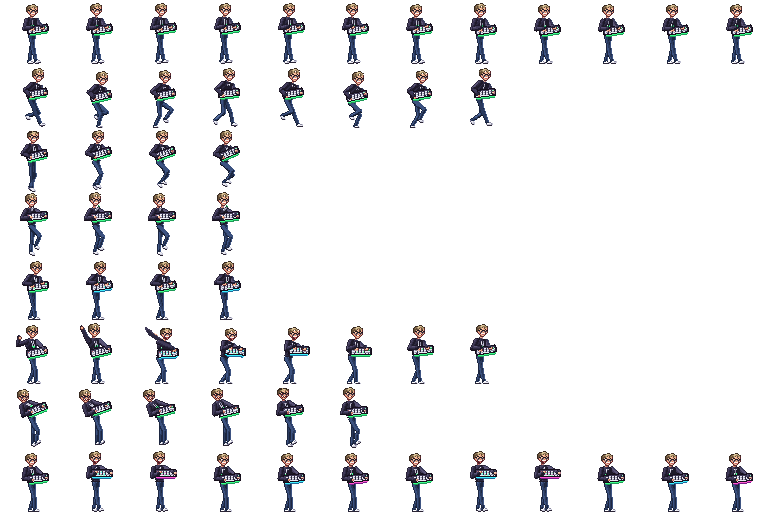
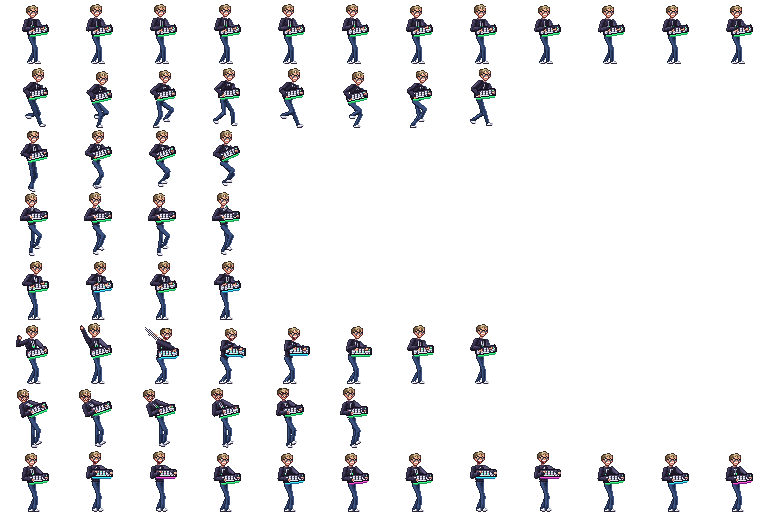
fix(looks): planted feet, chest breathing, clearer glasses and code bolts for hibit
Planted feet rode up and down with every breath: the stance asked for more reach than
the legs had, so the IK straightened the leg and dragged the foot along. Legs now keep a
soft knee, `planted` settles the pelvis whenever a pose would lift a planted foot, the
foot direction ignores the body's lean, and the idle breathes through the chest only,
so a standing hero's legs are pixel-still while the chest, head and hair move.

The eyes behind the glasses are his blue-grey instead of black: a black eye between two
dark rims turned the narrow far lens into a solid blob that read as goggles. Code bolts
ink their glyphs before glowing so `</>` stays legible, smear fans dither their bodies
to read as motion rather than a dark flag, and Strategy's shirt reads white with a
hand-drawn open collar under his chin.

diff --git a/tools/looks/hibit/characters/hibit/effects.py b/tools/looks/hibit/characters/hibit/effects.py
@@ -108,68 +108,91 @@ GLYPHS: Dict[str, List[str]] = {
 CODE = {"core": "#ffffff", "hot": "#9dffc4", "mid": "#3dff8a", "dim": "#1f9a58", "deep": "#0e4a2a", "ink": "#06200f"}
 
 
+def _outlined_glyph(p: Pixels, rows: Sequence[str], x: int, y: int, fill: str, ink: str) -> None:
+    """A glyph with a 1 px ink outline around it, so it stays legible inside a glow."""
+    for j, row in enumerate(rows):
+        for i, ch in enumerate(row):
+            if ch != "#":
+                continue
+            for dx in (-1, 0, 1):
+                for dy in (-1, 0, 1):
+                    if p.get(x + i + dx, y + j + dy) is None:
+                        p.put(x + i + dx, y + j + dy, ink)
+    p.glyph(rows, x, y, fill)
+
+
+def _glow(p: Pixels, color: str, sparse: bool = False) -> None:
+    """One stepped band of glow around everything drawn so far (never a soft blur)."""
+    add = []
+    for y in range(p.h):
+        for x in range(p.w):
+            if p.get(x, y) is not None:
+                continue
+            if sparse and (x + y) % 2:
+                continue
+            if any(p.get(x + dx, y + dy) is not None for dx, dy in ((-1, 0), (1, 0), (0, -1), (0, 1))):
+                add.append((x, y))
+    for x, y in add:
+        p.put(x, y, color)
+
+
 def _bolt_core(p: Pixels, cx: int, cy: int, hot: bool) -> None:
-    """`</>` with a two-band stepped glow."""
-    text = ["<", "/", ">"]
-    x = cx - 5
-    for g in text:
-        p.glyph(GLYPHS[g], x, cy - 2, CODE["core"] if hot else CODE["hot"])
-        x += 4
-    # Stepped glow: dilate twice with darker bands (drawn under the glyphs).
-    glyph_px = {(i % p.w, i // p.w) for i, c in enumerate(p.px) if c in (CODE["core"], CODE["hot"])}
-    for band, color in ((1, CODE["mid"]), (2, CODE["dim"])):
-        for x0, y0 in list(glyph_px):
-            for dx in range(-band, band + 1):
-                for dy in range(-band, band + 1):
-                    if abs(dx) + abs(dy) <= band and p.get(x0 + dx, y0 + dy) is None:
-                        p.put(x0 + dx, y0 + dy, color)
+    """`</>` in white-hot mint, inked so it reads, wrapped in a stepped green glow."""
+    fill = CODE["core"] if hot else CODE["hot"]
+    x = cx - 6
+    for g in ("<", "/", ">"):
+        _outlined_glyph(p, GLYPHS[g], x, cy - 2, fill, CODE["ink"])
+        x += 5
+    _glow(p, CODE["mid"])
+    _glow(p, CODE["dim"], sparse=True)
 
 
 def code_projectile() -> List[Sprite]:
-    """Six frames: the bolt shimmers (core flips white/mint) while glyphs stream behind it."""
+    """Six frames: the bolt shimmers (core flips white/mint, the outer glow crawls) while a
+    stream of keyboard glyphs peels off behind it, dimmer with distance."""
     trail_glyphs = [";", "1", "{", "0", "=", "}"]
     frames = []
     for f in range(6):
         p = Pixels()
-        _bolt_core(p, 17, 16, hot=f % 2 == 0)
-        # The stream: glyphs peel off behind and fall away, dimmer with distance.
+        _bolt_core(p, 19, 16, hot=f % 2 == 0)
         for k in range(3):
             g = trail_glyphs[(f + k * 2) % len(trail_glyphs)]
-            gx = 8 - k * 4 - (f % 2)
+            gx = 6 - k * 4 - (f % 2)
             gy = 14 + (1 if (f + k) % 2 else -1) * (k % 2) + (k == 2)
             color = (CODE["mid"], CODE["dim"], CODE["deep"])[k]
-            rows = GLYPHS[g]
-            p.glyph(rows, gx, gy, color)
-        # Scanline sparkle on the leading edge.
-        p.put(25 + (f % 3 == 0), 16 - 2 + (f % 3), CODE["core"])
+            p.glyph(GLYPHS[g], gx, gy, color)
+        # A leading spark that skips along the front edge.
+        p.put(29, 14 + (f % 3), CODE["core"])
         frames.append(p.sprite())
     return frames
 
 
 def code_impact() -> List[Sprite]:
-    """Seven frames: white pop, the bolt shatters into brackets and bits that fly and blink out."""
+    """Seven frames: a white-hot pop, a two-band shock ring, then the bolt's brackets and
+    bits fly apart and blink out like hardware sprites."""
     frames = []
     shards = [("{", -1.0, -0.6), ("}", 1.0, -0.5), ("<", -1.0, 0.5), (">", 1.0, 0.6), (";", 0.1, -1.0), ("0", 0.0, 1.0)]
     for f in range(7):
         p = Pixels()
         if f == 0:
-            p.disc(16, 16, 5.5, 4.5, CODE["dim"])
-            p.disc(16, 16, 4.0, 3.2, CODE["hot"])
-            p.disc(16, 16, 2.5, 2.0, CODE["core"])
+            p.disc(16, 16, 6.0, 5.0, CODE["dim"])
+            p.disc(16, 16, 4.5, 3.6, CODE["hot"])
+            p.disc(16, 16, 3.0, 2.4, CODE["core"])
         elif f == 1:
+            p.ring(16, 16, 8.5, CODE["dim"], 1.0)
             p.ring(16, 16, 7.5, CODE["mid"], 1.0)
             p.disc(16, 16, 3.0, 2.5, CODE["core"])
         else:
             r = 3 + f * 2.4
             for g, dx, dy in shards:
                 if f >= 5 and (f + len(g)) % 2:
-                    continue  # blink out
+                    continue
                 gx = int(16 + dx * r - 1)
                 gy = int(16 + dy * r * 0.8 - 2)
-                color = CODE["hot"] if f < 4 else CODE["mid"] if f < 6 else CODE["dim"]
-                p.glyph(GLYPHS[g], gx, gy, color)
+                color = CODE["core"] if f < 3 else CODE["hot"] if f < 5 else CODE["mid"]
+                _outlined_glyph(p, GLYPHS[g], gx, gy, color, CODE["ink"])
             if f < 4:
-                p.ring(16, 16, 7.5 + (f - 1) * 2.5, CODE["dim"], 1.0)
+                p.ring(16, 16, 9.5 + (f - 1) * 2.5, CODE["dim"], 1.0)
         frames.append(p.sprite())
     return frames
 
@@ -186,12 +209,12 @@ def code_muzzle() -> List[Sprite]:
                 rad = math.radians(a)
                 p.line(16 + math.cos(rad) * 4, 16 + math.sin(rad) * 4, 16 + math.cos(rad) * 6, 16 + math.sin(rad) * 6, CODE["hot"])
         elif f == 1:
-            p.glyph(GLYPHS[">"], 15, 13, CODE["core"])
-            p.glyph(GLYPHS["_"], 19, 17, CODE["hot"])
-            p.ring(16, 16, 6.0, CODE["dim"])
+            _outlined_glyph(p, GLYPHS[">"], 15, 13, CODE["core"], CODE["ink"])
+            _outlined_glyph(p, GLYPHS["_"], 19, 17, CODE["hot"], CODE["ink"])
+            p.ring(16, 16, 7.0, CODE["dim"])
         elif f == 2:
-            p.glyph(GLYPHS[">"], 16, 13, CODE["mid"])
-            p.glyph(GLYPHS["_"], 20, 17, CODE["mid"])
+            _outlined_glyph(p, GLYPHS[">"], 16, 13, CODE["mid"], CODE["ink"])
+            _outlined_glyph(p, GLYPHS["_"], 20, 17, CODE["mid"], CODE["ink"])
         else:
             p.put(18, 15, CODE["dim"])
             p.put(21, 17, CODE["dim"])

diff --git a/tools/looks/hibit/characters/hibit/heroes.py b/tools/looks/hibit/characters/hibit/heroes.py
@@ -51,12 +51,27 @@ def _hips(pose: Pose) -> Tuple[Tuple[float, float], Tuple[float, float]]:
 
 def planted(pose: Pose, near: Tuple[float, float] = (3.2, 0.8), far: Tuple[float, float] = (-2.8, -0.6),
             near_lift: float = 0.0, far_lift: float = 0.0, near_pitch: float = 0.0, far_pitch: float = 0.0) -> Pose:
-    """Plants both feet at (dx, dz) from their hips with IK, so the body can bob above them."""
+    """Plants both feet at (dx, dz) from their hips with IK, so the body can bob above them.
+
+    A planted foot must never ride up with the body: if the pose asks for more reach than
+    a soft-kneed leg has, the pelvis settles until both feet are on their marks."""
     (nx, nz), (fx, fz) = _hips(replace(pose, y=0.0, lean=0.0))
+    near_target = (nx + near[0], BUILD.ankle_height + near_lift, nz + near[1])
+    far_target = (fx + far[0], BUILD.ankle_height + far_lift, fz + far[1])
+    reach = (BUILD.thigh + BUILD.shin) * 0.985
+    sk = solve(pose)
+    drop = 0.0
+    for hip, target in ((sk.near_leg.root, near_target), (sk.far_leg.root, far_target)):
+        dx, dz = target[0] - hip[0], target[2] - hip[2]
+        flat = dx * dx + dz * dz
+        if flat < reach * reach:
+            max_height = math.sqrt(reach * reach - flat)
+            drop = max(drop, (hip[1] - target[1]) - max_height)
     return replace(
         pose,
-        near_leg=Limb(target=(nx + near[0], BUILD.ankle_height + near_lift, nz + near[1]), end=near_pitch),
-        far_leg=Limb(target=(fx + far[0], BUILD.ankle_height + far_lift, fz + far[1]), end=far_pitch),
+        y=pose.y - max(0.0, drop),
+        near_leg=Limb(target=near_target, end=near_pitch),
+        far_leg=Limb(target=far_target, end=far_pitch),
     )
 
 
@@ -67,8 +82,8 @@ def idle_body(i: int) -> FrameSpec:
     """A relaxed, weight-on-the-back-leg stance that breathes; blinks once, glints once."""
     t = i / IDLE_FRAMES
     breath = math.sin(2 * math.pi * t)
-    pose = Pose(y=0.55 * breath - 0.4, lean=-1.0 + 0.6 * breath, chest_lean=-1.0, hip_yaw=30.0, chest_yaw=50.0,
-                roll=-2.0)
+    pose = Pose(y=-1.2, chest_rise=0.6 * breath, lean=-1.0, chest_lean=-1.0 + 0.5 * breath, hip_yaw=30.0,
+                chest_yaw=50.0, roll=-2.0)
     pose = planted(pose, near=(5.4, 1.0), far=(-4.2, -0.8), near_pitch=4.0)
     face = "blink" if i == 8 else "smile"
     # The hair lags the breath: it floats a moment after the chest drops.
@@ -215,6 +230,8 @@ class Hero:
     skill: Callable[[], List[FrameSpec]]
     victory: Callable[[], List[FrameSpec]]
     sleeve: str
+    #: Head-relative sprites worn in every frame (Strategy's open collar).
+    worn: Tuple[Tuple, ...] = ()
 
 
 def locomotion(hero: Hero, anim: str) -> List[FrameSpec]:
@@ -233,12 +250,16 @@ def locomotion(hero: Hero, anim: str) -> List[FrameSpec]:
 
 def frames_for(hero: Hero, anim: str) -> List[FrameSpec]:
     if anim == "attack":
-        return hero.attack()
-    if anim == "skill":
-        return hero.skill()
-    if anim == "victory":
-        return hero.victory()
-    return locomotion(hero, anim)
+        specs = hero.attack()
+    elif anim == "skill":
+        specs = hero.skill()
+    elif anim == "victory":
+        specs = hero.victory()
+    else:
+        specs = locomotion(hero, anim)
+    if hero.worn:
+        specs = [replace(spec, head_fx=spec.head_fx + hero.worn) for spec in specs]
+    return specs
 
 
 # ── HACKERMAN: the keyboard, slung like a keytar ──────────────────────────────────
@@ -498,6 +519,15 @@ OOOO
 
 _PAD = HandItem("far", PAD.sprite, (2, 2))
 
+#: The open white collar, framing a V of skin under his chin; placed from the head anchor
+#: (the top of the neck) so it rides with every pose.
+COLLAR = Sprite.parse("""
+oW...Wo.
+oWWsWWo.
+.oWWWo..
+""", {"o": "#6c6e94", "W": "#ffffff", "s": "#d8876f"})
+_COLLAR_FX = ((COLLAR, -3, 1, 3.0),)
+
 
 def strategy_carry(anim: str, i: int, spec: FrameSpec) -> FrameSpec:
     p = spec.extra.get("phase", 0.0)
@@ -625,6 +655,7 @@ STRATEGY_HERO = Hero(
     strategy_skill,
     strategy_victory,
     sleeve="blazer",
+    worn=_COLLAR_FX,
 )
 
 HEROES: Dict[str, Hero] = {h.id: h for h in (HACKERMAN_HERO, ARTSY_HERO, STRATEGY_HERO)}

diff --git a/tools/looks/hibit/characters/hibit/rig.py b/tools/looks/hibit/characters/hibit/rig.py
@@ -31,8 +31,10 @@ class Build:
     hip_half_width: float = 2.6
     shoulder_half_width: float = 6.6
     shoulder_drop: float = 0.8
-    thigh: float = 13.6
-    shin: float = 12.0
+    # Slightly longer than hip height minus ankle: a standing leg keeps a soft knee, so IK
+    # can always plant the foot exactly and it never rides up and down with a breath.
+    thigh: float = 14.0
+    shin: float = 12.4
     ankle_height: float = 1.9
     upper_arm: float = 8.6
     forearm: float = 7.8
@@ -63,6 +65,8 @@ class Pose:
     chest_lean: float = 0.0  # chest relative to pelvis, forward (+)
     roll: float = 0.0  # spine sideways towards the near side (+)
     neck: float = 0.0  # head nod forward (+), in degrees on the neck
+    #: Breath: lifts chest, shoulders and head (px) while the hips and legs stay put.
+    chest_rise: float = 0.0
     near_arm: Limb = Limb(swing=4.0, spread=9.0, bend=12.0)
     far_arm: Limb = Limb(swing=-4.0, spread=9.0, bend=12.0)
     near_leg: Limb = Limb(swing=3.0, bend=2.0)
@@ -101,12 +105,13 @@ class Skeleton:
     build: Build
 
     def foot_dir(self, leg: Chain) -> Vec:
-        """Heel-to-toe direction: forward in the pelvis frame, pitched by `end`."""
-        shin = norm(sub(leg.end, leg.mid))
+        """Heel-to-toe direction: level along the ground in the hips' facing, pitched only by
+        `end` (toes up +). It ignores the body's lean and the shin, so a planted foot stays
+        pixel-still while the body breathes and bobs above it."""
         fwd = leg.frame.fwd
-        # Flatten forward against the shin so a bent ankle keeps the foot roughly level.
-        f = norm(sub(fwd, scale(shin, dot(fwd, shin) * 0.3)))
-        return norm(rotate(f, leg.frame.side, leg.limb.end * DEG))
+        level = norm((fwd[0], 0.0, fwd[2]))
+        side = norm(cross(level, (0.0, 1.0, 0.0)))
+        return norm(rotate(level, side, leg.limb.end * DEG))
 
 
 def _two_bone(root: Vec, target: Vec, l1: float, l2: float, pole: Vec) -> Tuple[Vec, Vec]:
@@ -157,7 +162,7 @@ def solve(pose: Pose, build: Build = Build()) -> Skeleton:
         .leaned((pose.lean + pose.chest_lean) * DEG)
     )
     chest = add(pelvis, scale(pelvis_frame.up, build.pelvis_to_chest * 0.55))
-    chest = add(chest, scale(chest_frame.up, build.pelvis_to_chest * 0.45))
+    chest = add(chest, scale(chest_frame.up, build.pelvis_to_chest * 0.45 + pose.chest_rise))
     neck_base = add(chest, scale(chest_frame.up, build.chest_to_neck))
     head_frame = chest_frame.leaned(pose.neck * DEG)
     head = add(neck_base, scale(head_frame.up, build.neck_length))

diff --git a/tools/looks/hibit/characters/hibit/compose.py b/tools/looks/hibit/characters/hibit/compose.py
@@ -103,8 +103,10 @@ class FrameSpec:
     hide_hands: Tuple[str, ...] = ()
     #: Smear from the previous frame's hand position to this one ("near"/"far"), see render_sequence.
     smear: Tuple[str, ...] = ()
-    #: Sprites placed relative to the head anchor pixel (steam, stars, hearts): (sprite, dx, dy).
-    head_fx: Tuple[Tuple[Sprite, int, int], ...] = ()
+    #: Sprites placed relative to the head anchor pixel: (sprite, dx, dy) floats above
+    #: everything (steam, stars); (sprite, dx, dy, dz) sits at the head's depth plus dz
+    #: (a collar under the chin).
+    head_fx: Tuple[Tuple, ...] = ()
 
 
 ExtraFn = Callable[[Skeleton, FrameSpec, Optional[Placed]], List[Prim]]
@@ -182,8 +184,10 @@ def render_frame(character: Character, spec: FrameSpec) -> Rendered:
     hx, hy = to_pixel(sk.head)
     head_x, head_y = hx - pivot[0] + spec.head_dx, hy - pivot[1] + spec.head_dy
     canvas.stamp(sprite, head_x, head_y, z=sk.head[2] + 6.0, layer="head")
-    for fx_sprite, dx, dy in spec.head_fx:
-        canvas.stamp(fx_sprite, hx + spec.head_dx + dx, hy + spec.head_dy + dy, z=200.0, layer="fx")
+    for fx in spec.head_fx:
+        fx_sprite, dx, dy = fx[0], fx[1], fx[2]
+        z = sk.head[2] + fx[3] if len(fx) > 3 else 200.0
+        canvas.stamp(fx_sprite, hx + spec.head_dx + dx, hy + spec.head_dy + dy, z=z, layer="fx")
     for item in spec.items:
         chain = sk.near_arm if item.hand == "near" else sk.far_arm
         ix, iy = to_pixel(chain.end)

diff --git a/tools/looks/hibit/characters/hibit/anim.py b/tools/looks/hibit/characters/hibit/anim.py
@@ -157,11 +157,17 @@ def fan_smear(prev: Tuple[Tuple[float, float], Tuple[float, float]], cur: Tuple[
         for j in range(n + 1):
             u = j / n
             x, y = ex + (hx - ex) * u, ey + (hy - ey) * u
-            color = edge if u > 0.82 and t > 0.25 else (outer if u > 0.45 else inner)
+            leading = u > 0.82 and t > 0.25
+            color = edge if leading else (outer if u > 0.45 else inner)
             px, py = int(math.floor(x)), int(math.floor(y))
             for ox, oy in ((0, 0), (1, 0), (0, 1)):
-                if 0 <= px + ox < w and 0 <= py + oy < h and pixels[(py + oy) * w + px + ox] is None:
-                    pixels[(py + oy) * w + px + ox] = color
+                qx, qy = px + ox, py + oy
+                # The fan's body is dithered (a checkerboard reads as motion-transparent);
+                # only the leading edge, where the hand was, is solid.
+                if not leading and (qx + qy) % 2:
+                    continue
+                if 0 <= qx < w and 0 <= qy < h and pixels[qy * w + qx] is None:
+                    pixels[qy * w + qx] = color
     return Sprite(w, h, pixels)
 
 

diff --git a/tools/looks/hibit/characters/hibit/outfits.py b/tools/looks/hibit/characters/hibit/outfits.py
@@ -193,8 +193,8 @@ def _shirt_front(width_top: float, width_bottom: float):
             if up > 0.78 and abs(side) < 0.16:
                 return "skin", 0  # the open collar
             if abs(side + 0.02) < 0.05 and up < 0.78:
-                return "shirt", -1  # placket
-            return "shirt", 0
+                return "shirt", 0  # placket
+            return "shirt", 1  # a crisp white front, a tone above the ramp's shading
         if abs(side) < w + 0.16:
             return None, 1 if side < 0 else -1  # lapel roll catching the light
         return None, 0
@@ -206,8 +206,8 @@ def _shirt_waist(hit: Hit) -> PatternResult:
     fwd, up, side = hit.local
     if fwd > 0.25 and abs(side) < 0.2 + 0.08 * up:
         if abs(side) < 0.05:
-            return "shirt", -1
-        return "shirt", 0
+            return "shirt", 0
+        return "shirt", 1
     if fwd > 0.25 and abs(side) < 0.32:
         return None, 1 if side < 0 else -1
     return None, 0

diff --git a/tools/looks/hibit/characters/hibit/head.py b/tools/looks/hibit/characters/hibit/head.py
@@ -38,8 +38,8 @@ PALETTE: Dict[str, str] = {
     "G": "#1c1622",
     "g": "#5e5262",
     "w": "#ffffff",
-    # eyes, mouth
-    "e": "#2a1e2c",
+    # eyes (his blue-grey irises: a mid tone keeps the far lens a ring, not a black blob), mouth
+    "e": "#4a5a7a",
     "t": "#fbf3ea",
     "m": "#5a1a22",
     "r": "#c0606a",
